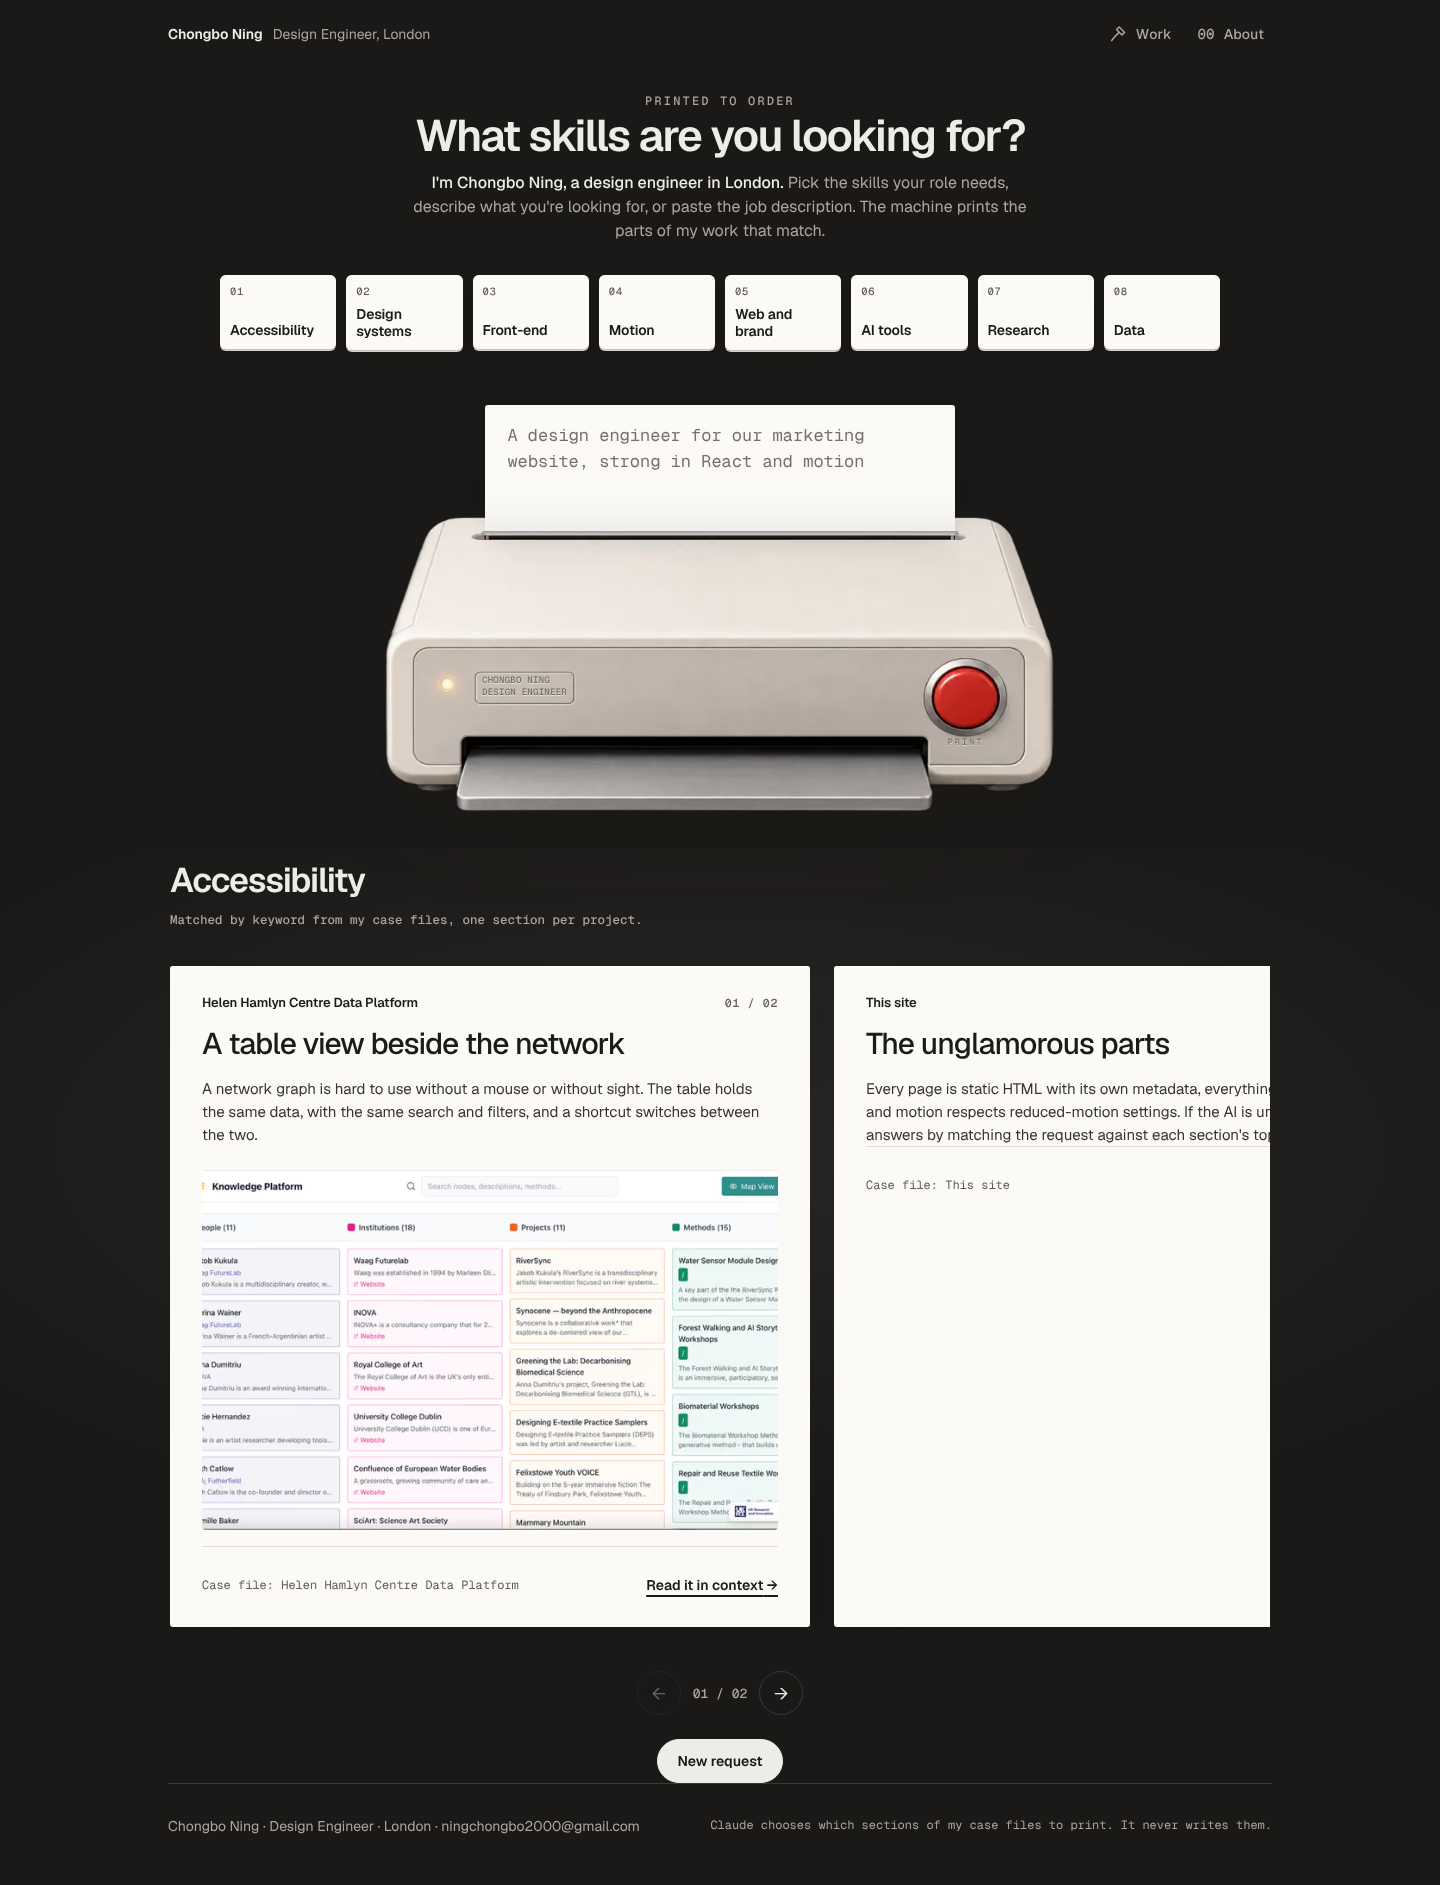
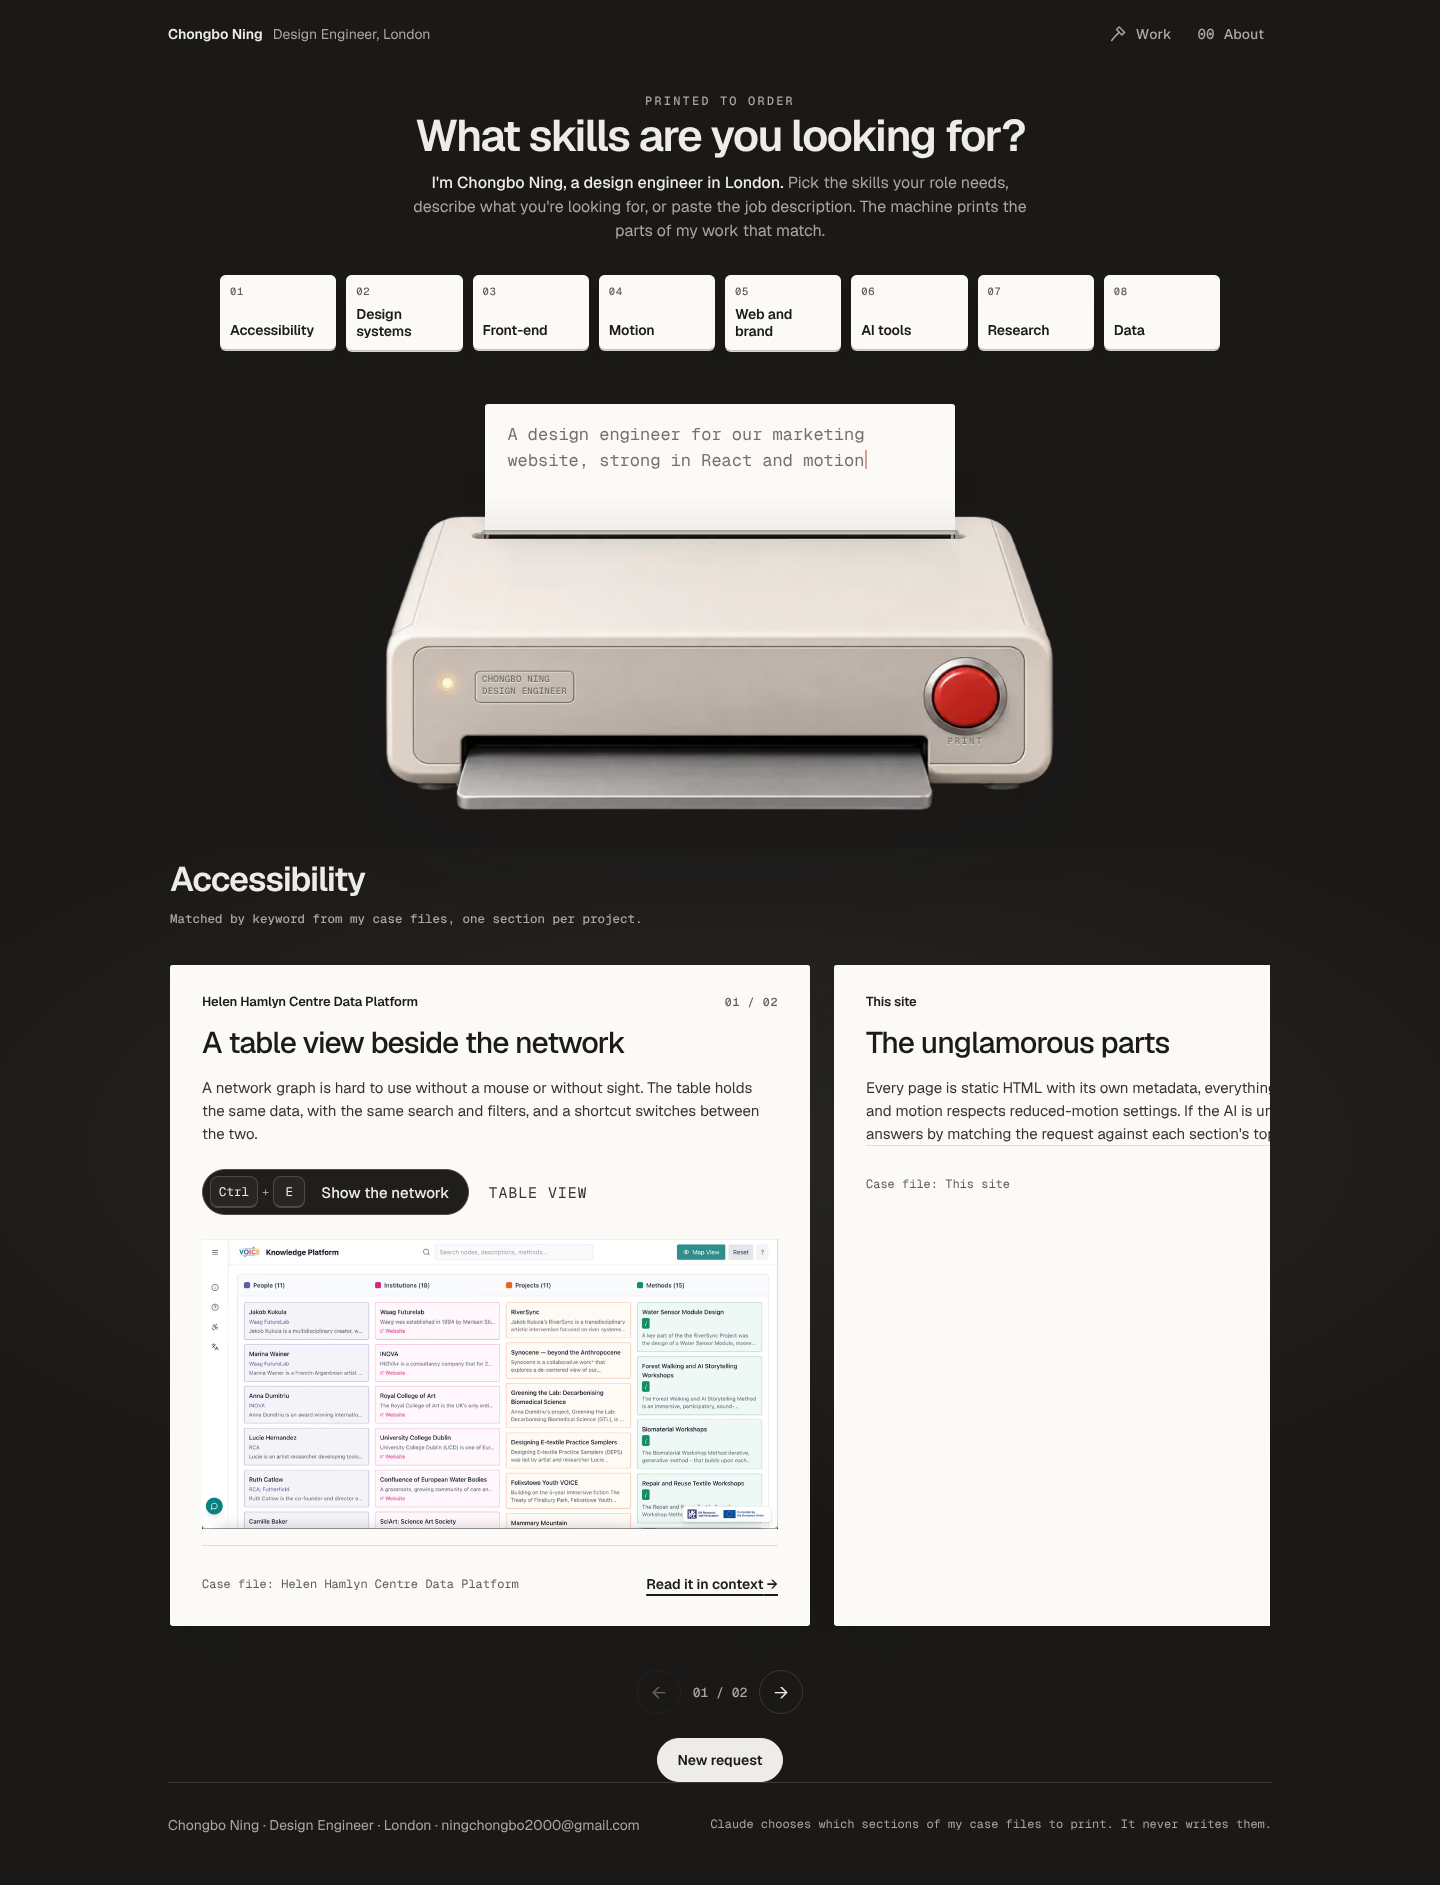
Printed sheets carry the case-file evidence block; the title names the cards that were picked
- page.tsx: CaseMedia for case-file projects' sheets (specimens, compare, toggle, module, code…), MediaSlot compact for the rest.
- resultTitle: picked card names when cards were picked; signal labels when words were typed; /ask maps topics back to cards.
- No change to src/lib/ask: a selection preference for sections with media is proposed in SHARED-CHANGES.

Claude-Session: https://claude.ai/code/session_01VM6HvcgBStETyshZ4tZF7t

diff --git a/src/lib/printed.ts b/src/lib/printed.ts
@@ -66,11 +66,19 @@ export const SIGNAL_SHORT: Record<Signal | "start-here", string> = {
 /**
  * The results title is what was asked for, never a count: the sheets underneath are the answer.
  *  - nothing understood, so the machine chose: "Where to start."
- *  - otherwise the asked signals, up to three, as short labels: "Accessibility", "Brand · Motion · SEO and performance".
+ *  - skills cards picked (no words): the cards' own names, "Front‑end · Motion"
+ *  - words typed: what the machine understood, as short signal labels, "Brand · Motion · SEO and performance"
  */
-export function resultTitle(opts: { asked: readonly Signal[]; startHere: boolean }): string {
-  if (opts.startHere || !opts.asked.length) return "Where to start.";
+export function resultTitle(opts: { asked: readonly Signal[]; startHere: boolean; picked?: readonly string[] }): string {
+  if (opts.startHere) return "Where to start.";
+  if (opts.picked?.length) return opts.picked.slice(0, 4).join(" · ");
+  if (!opts.asked.length) return "Where to start.";
   return opts.asked.slice(0, 3).map((k) => SIGNAL_SHORT[k]).join(" · ");
+}
+
+/** The skills cards a list of signal keys came from (the no-JavaScript page), in card order. */
+export function topicsToLabels(signals: readonly string[]): string[] {
+  return TOPICS.filter((t) => t.signals.every((s) => signals.includes(s))).map((t) => t.label);
 }
 
 /** Under the results title: who chose the sheets, so the reader knows the words are mine. */

diff --git a/src/app/page.tsx b/src/app/page.tsx
@@ -1,5 +1,6 @@
 import type { ReactNode } from "react";
 import { profile, projects } from "@content";
+import { CaseMedia } from "@/components/casefile/blocks";
 import { MediaSlot } from "@/components/media/MediaSlot";
 import { PrintedToOrder } from "@/components/PrintedToOrder";
 import { SiteFooter } from "@/components/SiteFooter";
@@ -7,10 +8,22 @@ import { SiteHeader } from "@/components/SiteHeader";
 import { buildCardIndex, cardKey } from "@/lib/cards";
 import { SITE_URL } from "@/lib/site";
 
-/** Each section's media, rendered on the server and handed to the printed sheets. */
+/**
+ * Each section's evidence, rendered on the server and handed to the printed sheets. A case-file project's sheet
+ * carries the same block its card has (compare, toggle, stepper, specimens, module, metrics, video); older projects
+ * use the compact media slot.
+ */
 function sheetMedia(): Record<string, ReactNode> {
   const out: Record<string, ReactNode> = {};
-  for (const p of projects) for (const s of p.sections) if (s.media) out[cardKey(p.slug, s.id)] = <MediaSlot media={s.media} compact />;
+  for (const p of projects)
+    for (const [i, s] of p.sections.entries())
+      if (s.media)
+        out[cardKey(p.slug, s.id)] =
+          p.template === "case-file" ? (
+            <CaseMedia media={s.media} index={`sheet-${p.slug}-${i}`} url={p.work?.url ?? ""} />
+          ) : (
+            <MediaSlot media={s.media} compact />
+          );
   return out;
 }
 

diff --git a/src/app/ask/page.tsx b/src/app/ask/page.tsx
@@ -17,7 +17,7 @@ import {
 } from "@/lib/ask/schema";
 import { getProject, type Signal } from "@content";
 import { buildCardIndex, cardKey, type SheetCard } from "@/lib/cards";
-import { missingLine, provenanceLine, quoteBrief, resultTitle } from "@/lib/printed";
+import { missingLine, provenanceLine, quoteBrief, resultTitle, topicsToLabels } from "@/lib/printed";
 
 export const metadata: Metadata = {
   title: "Your answer",
@@ -56,7 +56,8 @@ export default async function AskPage({ searchParams }: Props) {
   const sheets = (result?.sheets ?? [])
     .map((s) => index[cardKey(s.project, s.section)])
     .filter((c): c is SheetCard => Boolean(c));
-  const title = result ? resultTitle({ asked: result.asked, startHere: result.matched === "start-here" }) : (error ?? "What skills are you looking for?");
+  const picked = !brief.trim() ? topicsToLabels(topics) : [];
+  const title = result ? resultTitle({ asked: result.asked, startHere: result.matched === "start-here", picked }) : (error ?? "What skills are you looking for?");
 
   return (
     <div className="wrap">

diff --git a/tests/e2e/site.spec.ts b/tests/e2e/site.spec.ts
@@ -63,7 +63,7 @@ test.describe("printing", () => {
     await page.getByRole("button", { name: "Design systems", exact: true }).click();
     await page.getByRole("button", { name: "Print" }).click();
     expect((await req).postDataJSON()).toEqual({ brief: "", topics: ["design-systems", "cross-platform"] });
-    await expect(page.locator("#r-title")).toHaveText(/^Design systems/, { timeout: 10_000 });
+    await expect(page.locator("#r-title")).toHaveText("Design systems", { timeout: 10_000 });
   });
 
   test("keyboard only: type on the paper, Enter, results title focused, Tab reaches the first sheet's link", async ({ page }) => {

diff --git a/tests/unit/printed.test.ts b/tests/unit/printed.test.ts
@@ -52,6 +52,7 @@ describe("wording", () => {
     expect(resultTitle({ asked: ["brand-storytelling", "motion-interaction", "seo-performance", "data"], startHere: false })).toBe(
       "Brand · Motion · SEO and performance",
     );
+    expect(resultTitle({ asked: ["design-eng-gap", "seo-performance"], startHere: false, picked: ["Front‑end", "Motion"] })).toBe("Front‑end · Motion");
     expect(resultTitle({ asked: [], startHere: false })).toBe("Where to start.");
     expect(resultTitle({ asked: ["accessibility"], startHere: true })).toBe("Where to start.");
   });

diff --git a/src/components/PrintedToOrder.tsx b/src/components/PrintedToOrder.tsx
@@ -188,7 +188,8 @@ export function PrintedToOrder({ cards, media, labelledBy }: Props) {
 
     const r: Result = outcome.ok
       ? {
-          title: resultTitle({ asked: outcome.data.asked, startHere }),
+          // Cards picked without words: the title is what was picked. Words typed: what the machine understood.
+          title: resultTitle({ asked: outcome.data.asked, startHere, picked: labels }),
           asked: quoteBrief(text),
           cards: sheets,
           missing: missingLine(outcome.data.missing),

diff --git a/docs/case-studies/SHARED-CHANGES.md b/docs/case-studies/SHARED-CHANGES.md
@@ -53,3 +53,5 @@ Proposed changes to shared files (playbook §9), written by the project conversa
 | 2026-10-12 | Components for Any Data (with Chongbo) | `src/components/media/MediaSlot.tsx` (printed sheets) | Printed sheets leave off evidence that doesn't fit a sheet (code, image groups, steppers, colour specimens, project modules) instead of showing "[… to come]", which read as unfinished work. A genuinely missing image or video still shows its placeholder. Affects HHCD's contrast card and Nike's image groups on printed sheets. | Chongbo's screenshot of a printed result. | Done |
 
 | 2026-10-12 | Shell | `src/components/media/MediaSlot.tsx` (one line: compact `sizes`), `src/components/Sheet.tsx`, `src/lib/printed.ts` (`SIGNAL_SHORT` moved here, `resultTitle` takes `asked`), `src/lib/site.ts` (re-export), `src/app/ask/page.tsx`, `src/components/PrintedToOrder.tsx`, `src/app/printer.css`, tests | Printed sheets become the case-file cards they come from (claim, reasoning, full-width evidence), side by side on wide screens; the results title is the ask, not a count. The home page still sends `topics` + `brief` unchanged. | Chongbo, 12 Oct: the cards should answer the question, not say "five projects match". | Done on `main` |
+| 2026-10-12 | Shell | `src/lib/ask/fallback.ts` (proposal, not changed) | In `better()`, after signal score and word overlap, prefer a section **with media** over one without, before kind rank: a printed sheet with evidence answers better than words alone. Today "Accessibility" prints `this-site/foundations` (no media) and "Front‑end" prints `hhcd/role` (no media). Also: the Design systems card (`design-systems` + `cross-platform`) makes the result say "No work to show yet for Consistency across platforms", which reads oddly to someone who clicked one card; consider not reporting a card's secondary signal as missing. | Chongbo, 12 Oct: the images matter. | For the AI conversation |
+| 2026-10-12 | Shell | `src/app/page.tsx` (home only) | Printed sheets of case-file projects now render their evidence with `CaseMedia` (the same block as on the card: compare, toggle, stepper, specimens, module, metrics, video, code), not the compact media slot. No change to the blocks themselves. | So a printed sheet is the card it comes from. | Done on `main` |

diff --git a/docs/case-studies/this-site/DECISIONS.md b/docs/case-studies/this-site/DECISIONS.md
@@ -27,3 +27,5 @@ Open points from the shell work of 11 October 2026 (`shell/micro-interactions`).
 19. **Each sheet is the case-file card it comes from**: index above, the claim and the reasoning, the evidence at full sheet width (real images at sheet size; missing media as a small placeholder), a foot line "Case file: <project>" and "Read it in context →" as the secondary action. Capability tags are gone from sheets, as they are from case-file cards. "Full project →" wording retired.
 20. **Side by side on wide screens** (≥ 900px): a strip, each sheet 640px, the next one showing at the edge; arrows, the counter, keyboard left/right on the strip, swipe or trackpad scroll. A column on phones. The dealing animation is a short drop; none under reduced motion.
 21. `MediaSlot` compact images are sized for a sheet (820px) instead of 340px (one line in a shared file; noted in SHARED-CHANGES).
+22. **Why some sheets have no image**: eight sections have no media at all (`this-site` × 3, `wildecho` × 3, `hhcd/role`, `nike/outcome`, `components-for-any-data/takeaway`), and the fallback often picks them because it ignores media when scoring. Sheets of case-file projects now print the card's real evidence block (specimens, compare, toggle, code, modules); the selection preference is proposed to the AI conversation in SHARED-CHANGES, not changed here. Giving `this-site` sections media (a screenshot of the machine, of a case file) would fix the most visible case: that's content, yours.
+23. **The title when cards are picked is the cards' names** ("Front‑end · Motion"); when words are typed, the short labels of what the machine understood. The earlier mismatch (card "Front‑end" titled "Design–engineering · SEO and performance · Reusable components") was a labelling bug on the shell, not the AI.
